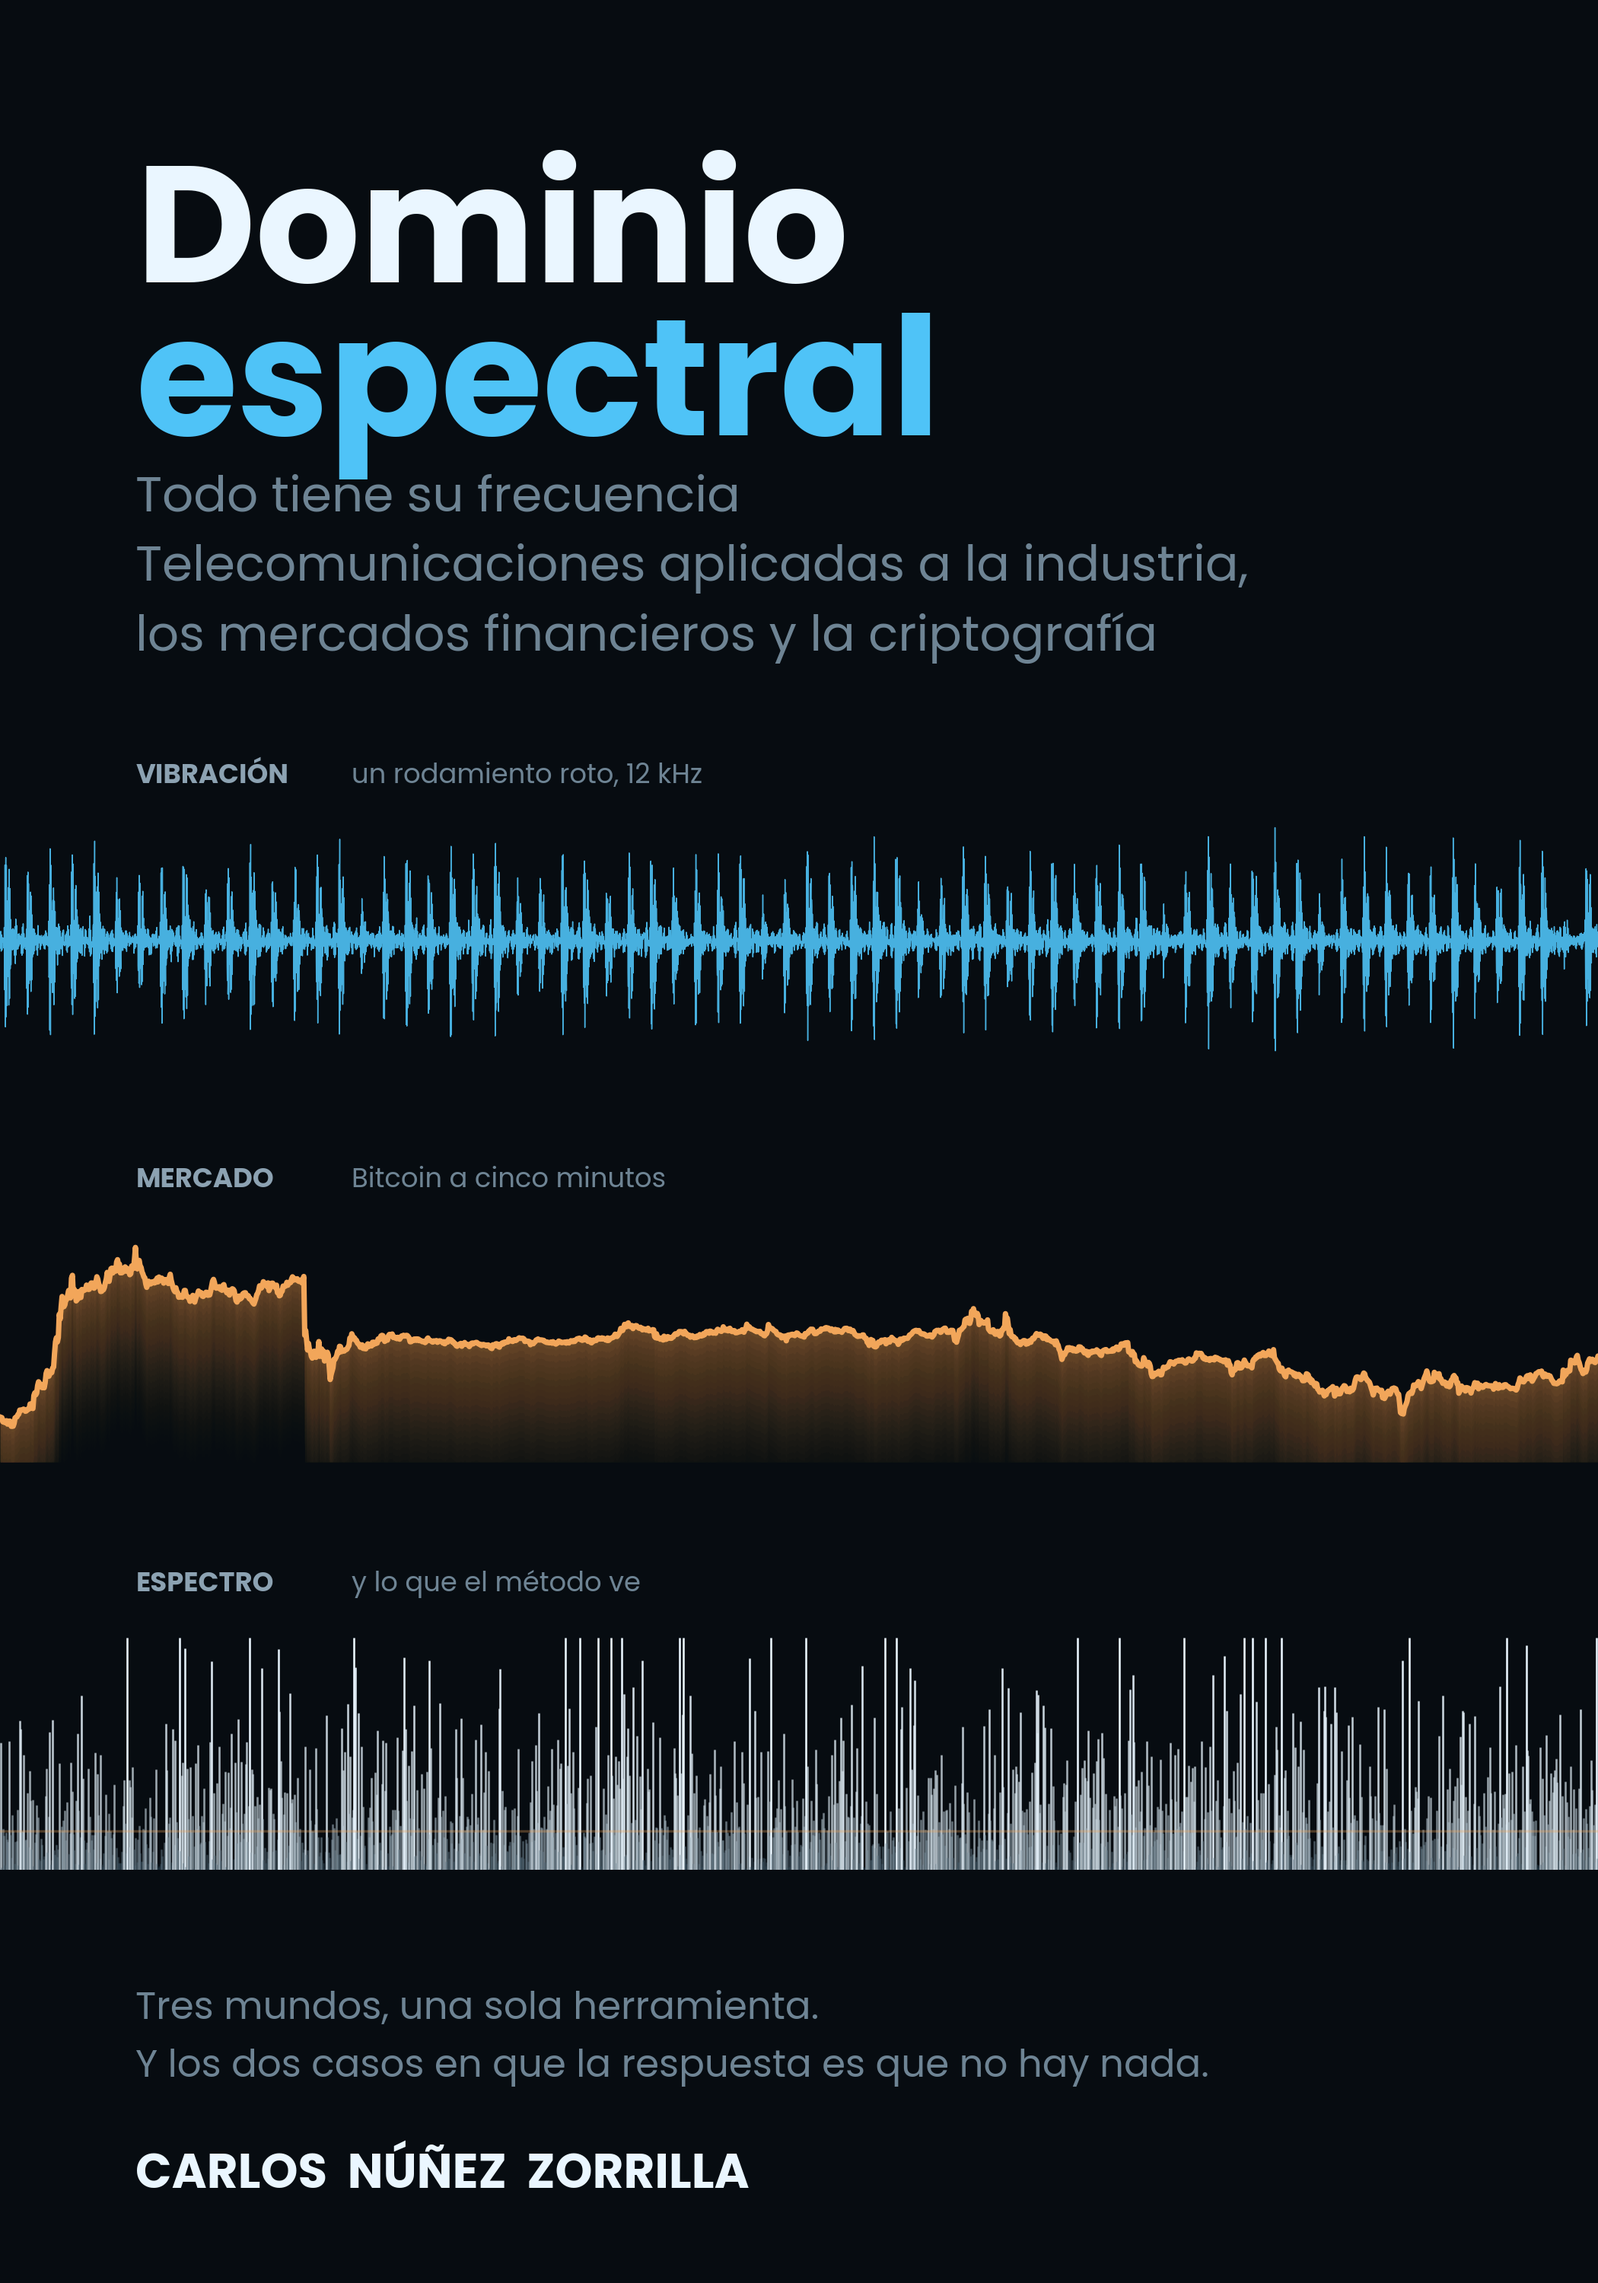
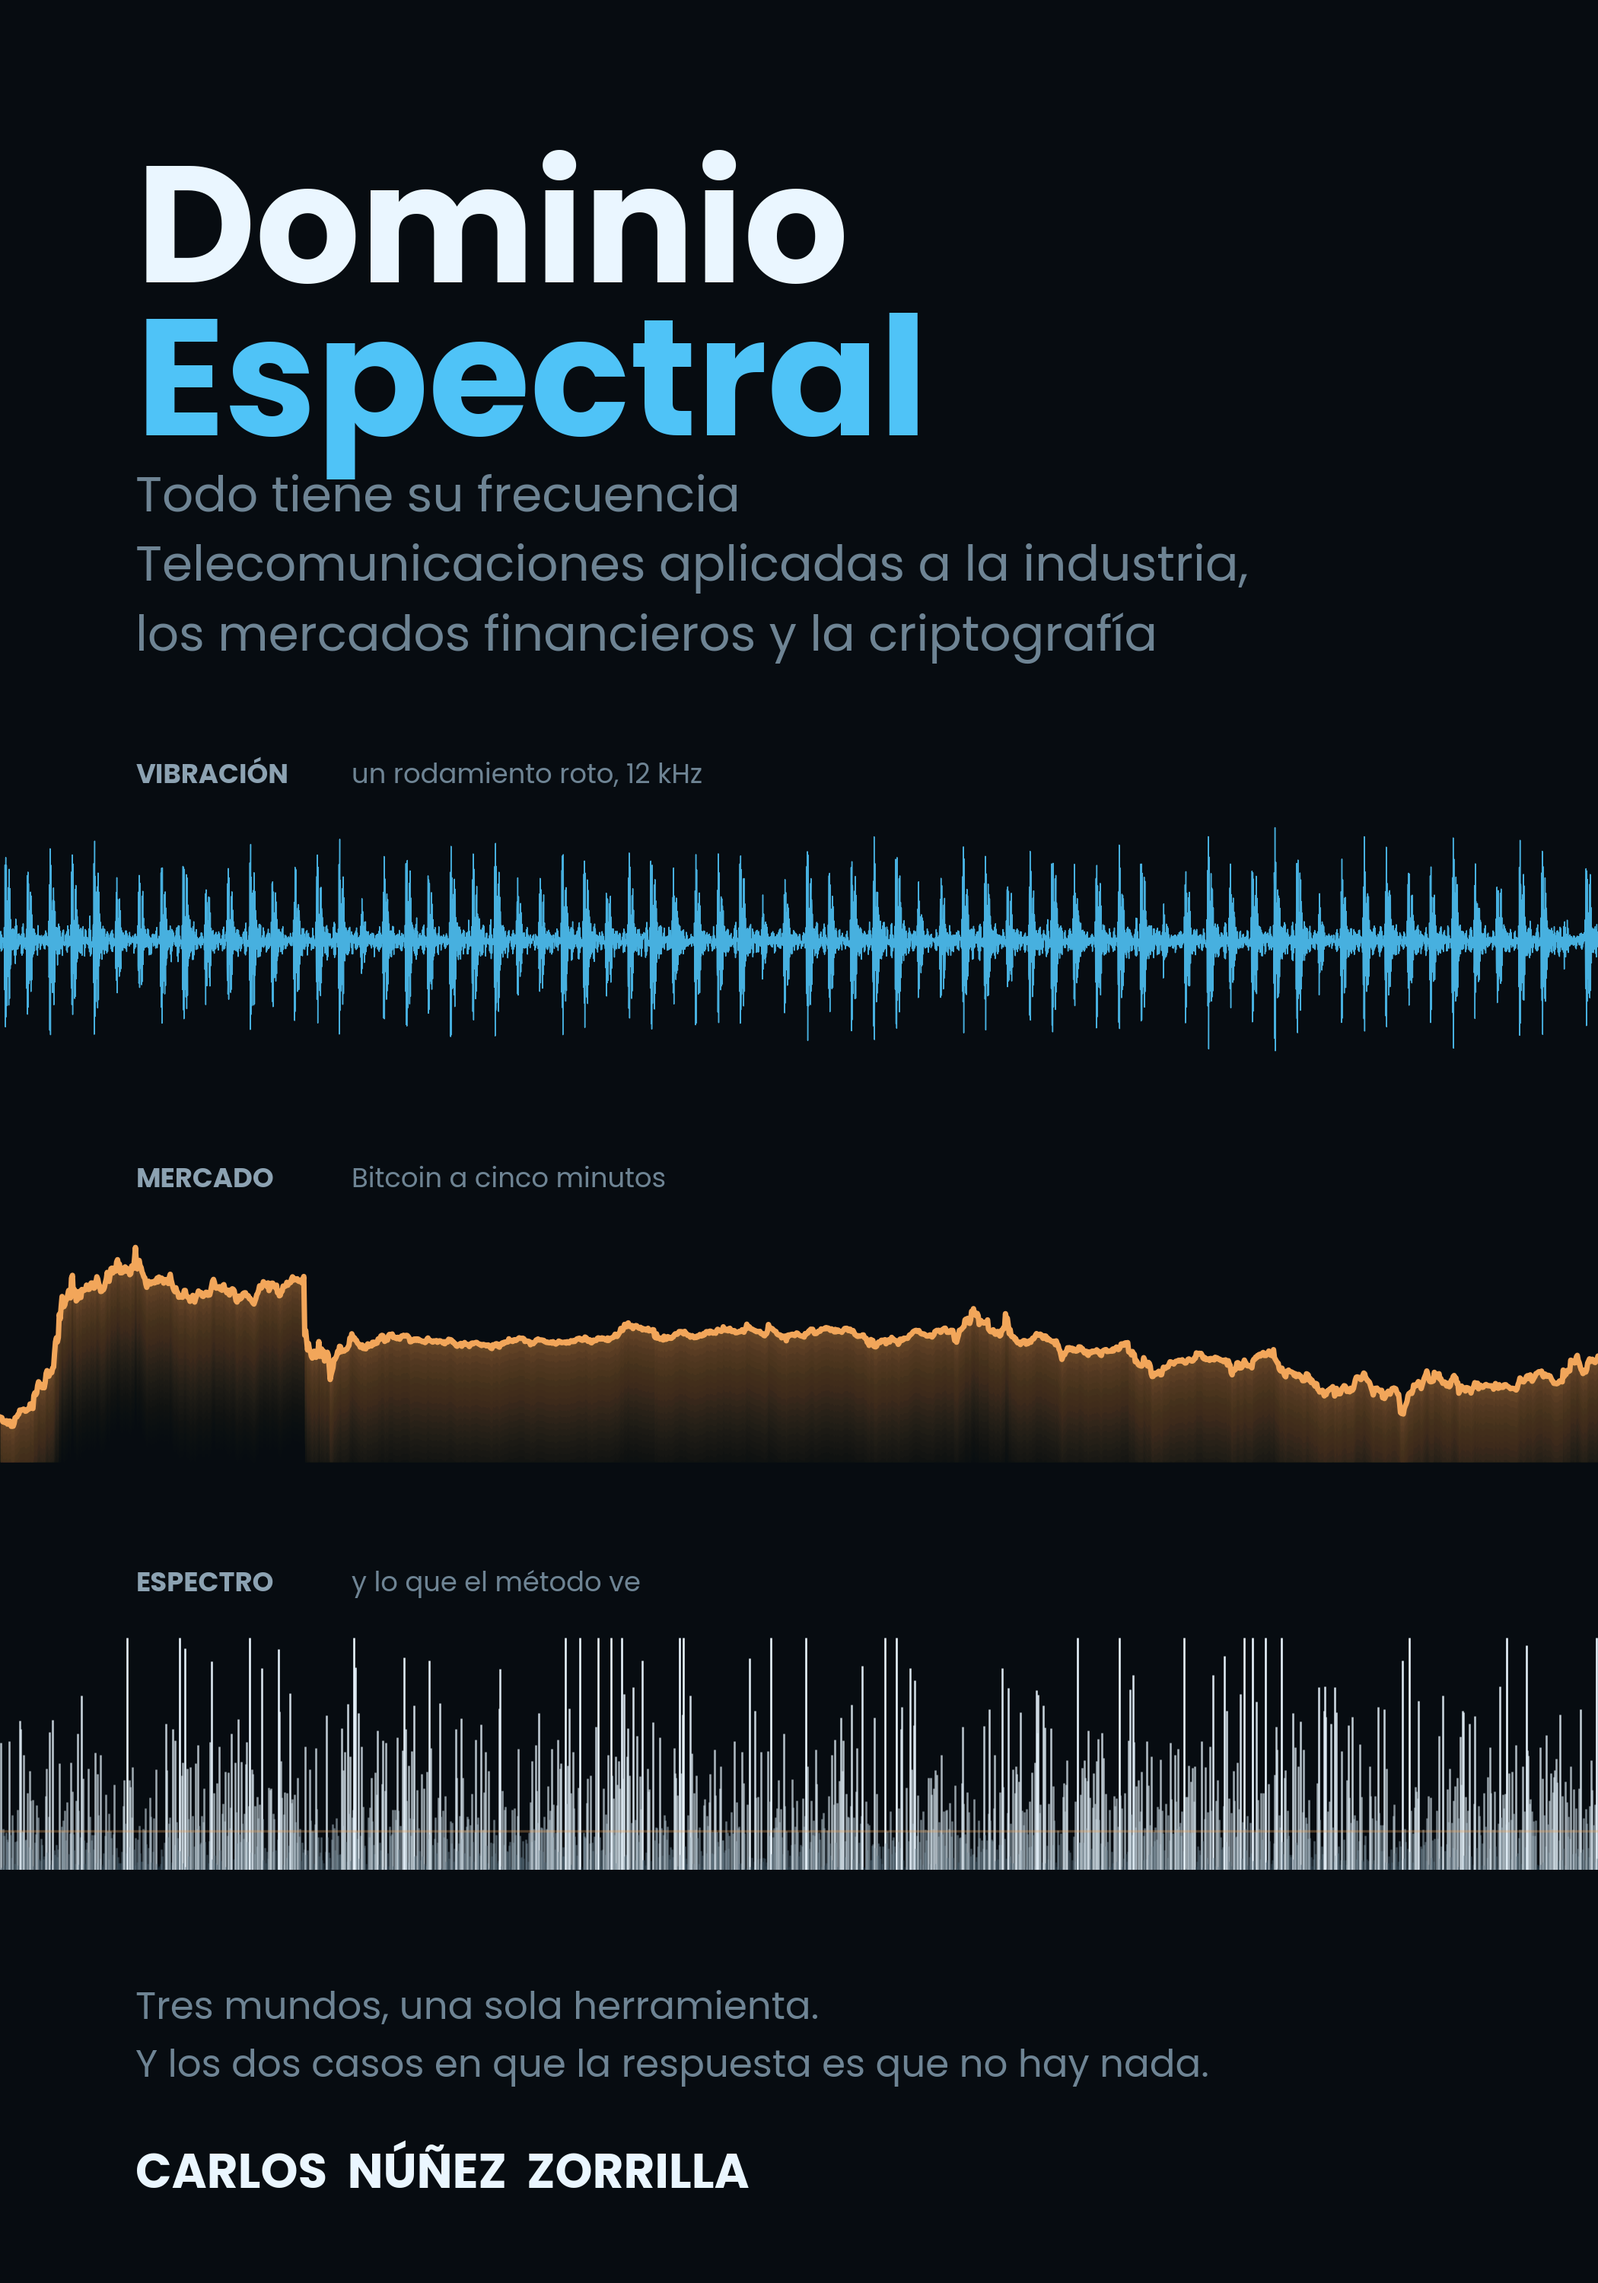
Titulo exacto: «Dominio Espectral - Todo tiene su frecuencia»
Claude-Session: https://claude.ai/code/session_012AXus1cbTtVEoxU6vHaggX

Changed region(s): [[0.0929, 0.124, 0.5881, 0.217]]

diff --git a/codigo/portada.py b/codigo/portada.py
@@ -122,7 +122,7 @@ for base, (fuerte, resto) in zip(BANDAS, ETIQUETAS):
 # --- tipografia
 fig.text(X0, 0.930, "Dominio", color=CLARO, fontsize=52,
          fontweight='bold', fontfamily=TIPO, va='top', ha='left')
-fig.text(X0, 0.863, "espectral", color=CIAN, fontsize=52,
+fig.text(X0, 0.863, "Espectral", color=CIAN, fontsize=52,
          fontweight='bold', fontfamily=TIPO, va='top', ha='left')
 fig.text(X0, 0.792, "Todo tiene su frecuencia\n"
                     "Telecomunicaciones aplicadas a la industria,\n"

diff --git a/README.md b/README.md
@@ -1,5 +1,4 @@
-# Dominio espectral
-## Todo tiene su frecuencia
+# Dominio Espectral - Todo tiene su frecuencia
 ### Telecomunicaciones aplicadas a la industria, los mercados financieros y la criptografía
 
 Repositorio de código del libro. **Todas las cifras del texto salen de ejecutar
